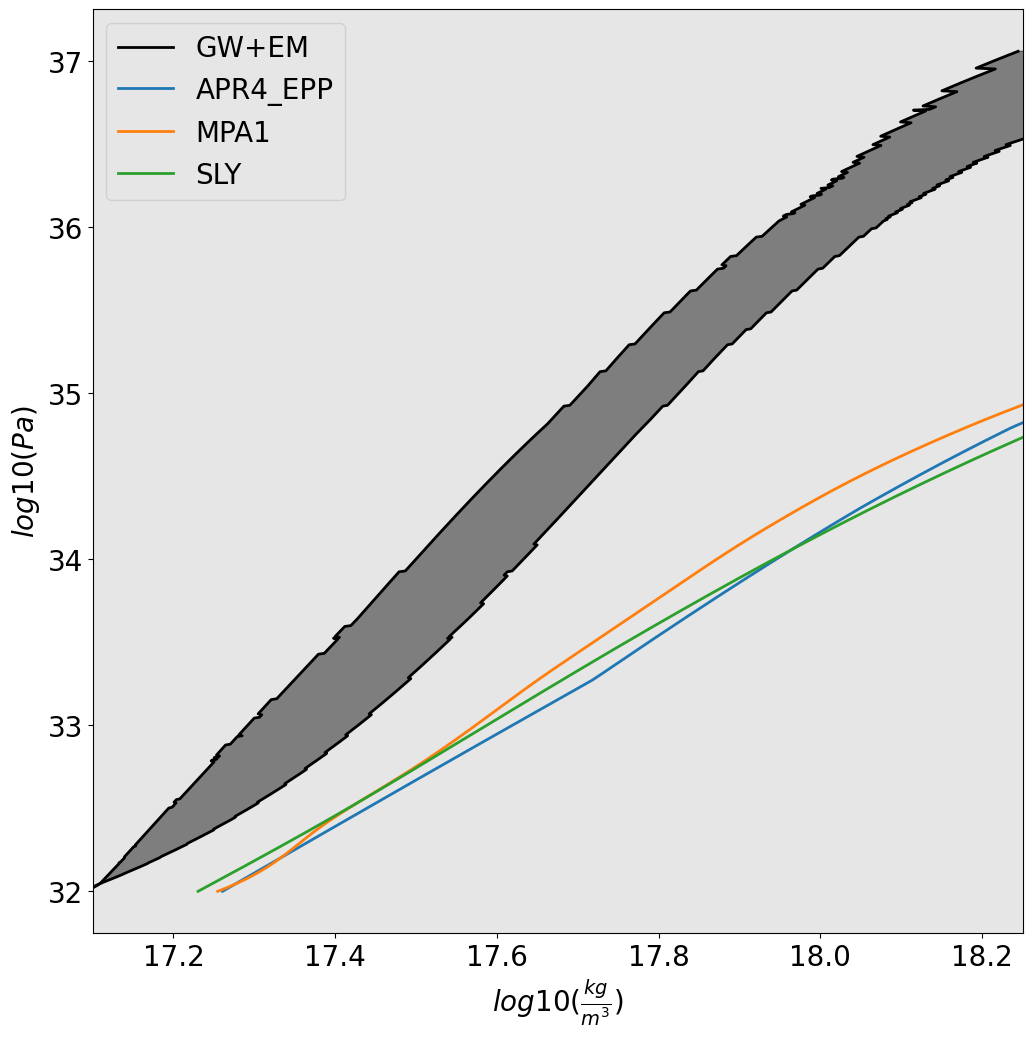
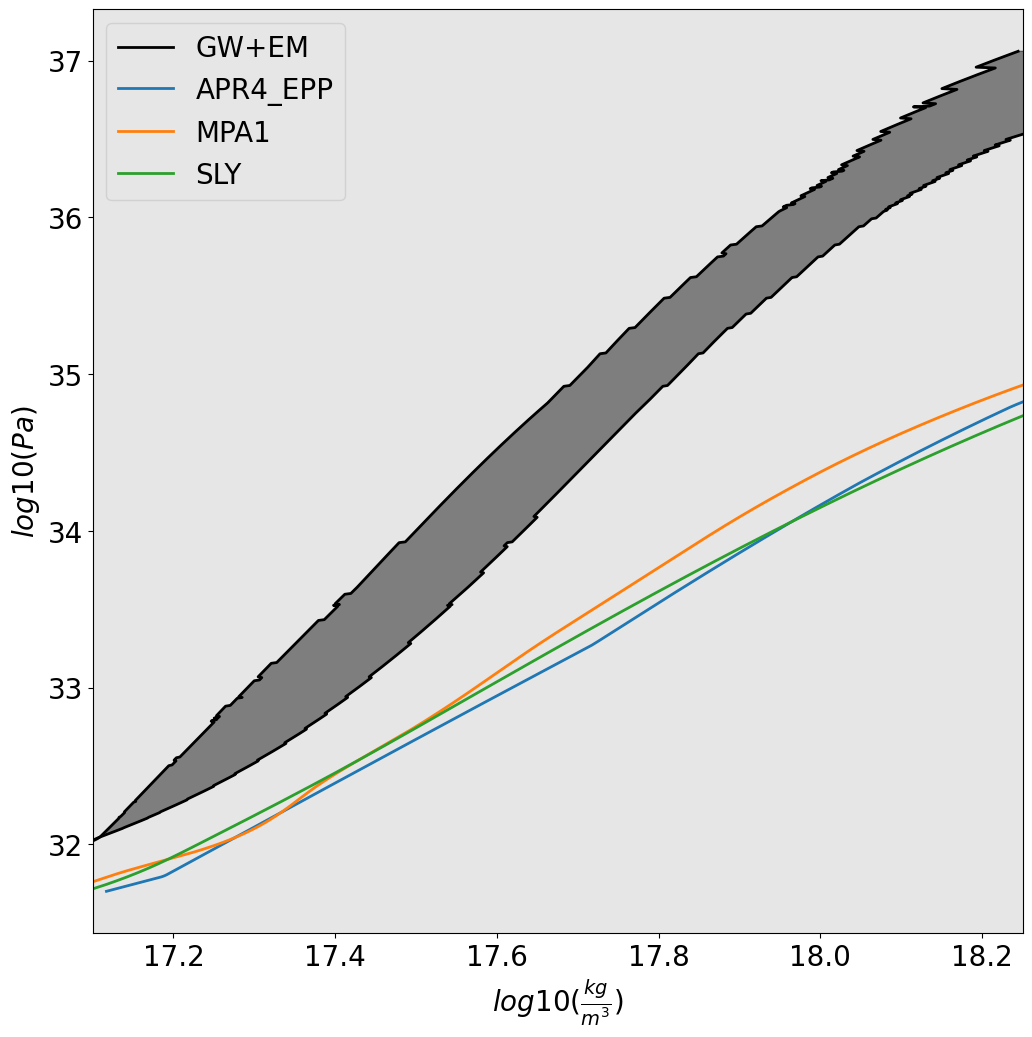
Plots. 40 attempt.

diff --git a/joint_inference/development/SpringPresentation.py b/joint_inference/development/SpringPresentation.py
@@ -49,13 +49,6 @@ def namedEoS_p_rho(EoS_Name):
 
 def overlap_namedEoS_constraint_p_rho(EoS_Names):
 
-    N = 1000
-    min_log_pressure = 31.5 # Usually 31.7, but didn't look right for overlap plot
-    max_log_pressure = 35.0
-
-    logp_grid = np.linspace(min_log_pressure, max_log_pressure, N+1)
-    logp_grid = logp_grid[:-1] # last val is max log pressure. For spectral method, density computation at this pressure causes a runtime error
-
     pl.figure(figsize=(12,12))
     pl.rc('font', size=20)
     pl.rc('axes', facecolor='#E6E6E6', edgecolor='black')
@@ -72,6 +65,13 @@ def overlap_namedEoS_constraint_p_rho(EoS_Names):
     pl.plot(lower_bound, logp_grid, label=label, color=color)
     pl.plot(upper_bound, logp_grid, color=color)
     ax1.fill_betweenx(logp_grid, lower_bound, x2=upper_bound, color=color, alpha=0.45)
+
+    N = 1000
+    min_log_pressure = 31.7
+    max_log_pressure = 35.0
+
+    logp_grid = np.linspace(min_log_pressure, max_log_pressure, N+1)
+    logp_grid = logp_grid[:-1] # last val is max log pressure. For spectral method, density computation at this pressure causes a runtime error
 
     for EoS_Name in EoS_Names:
 
